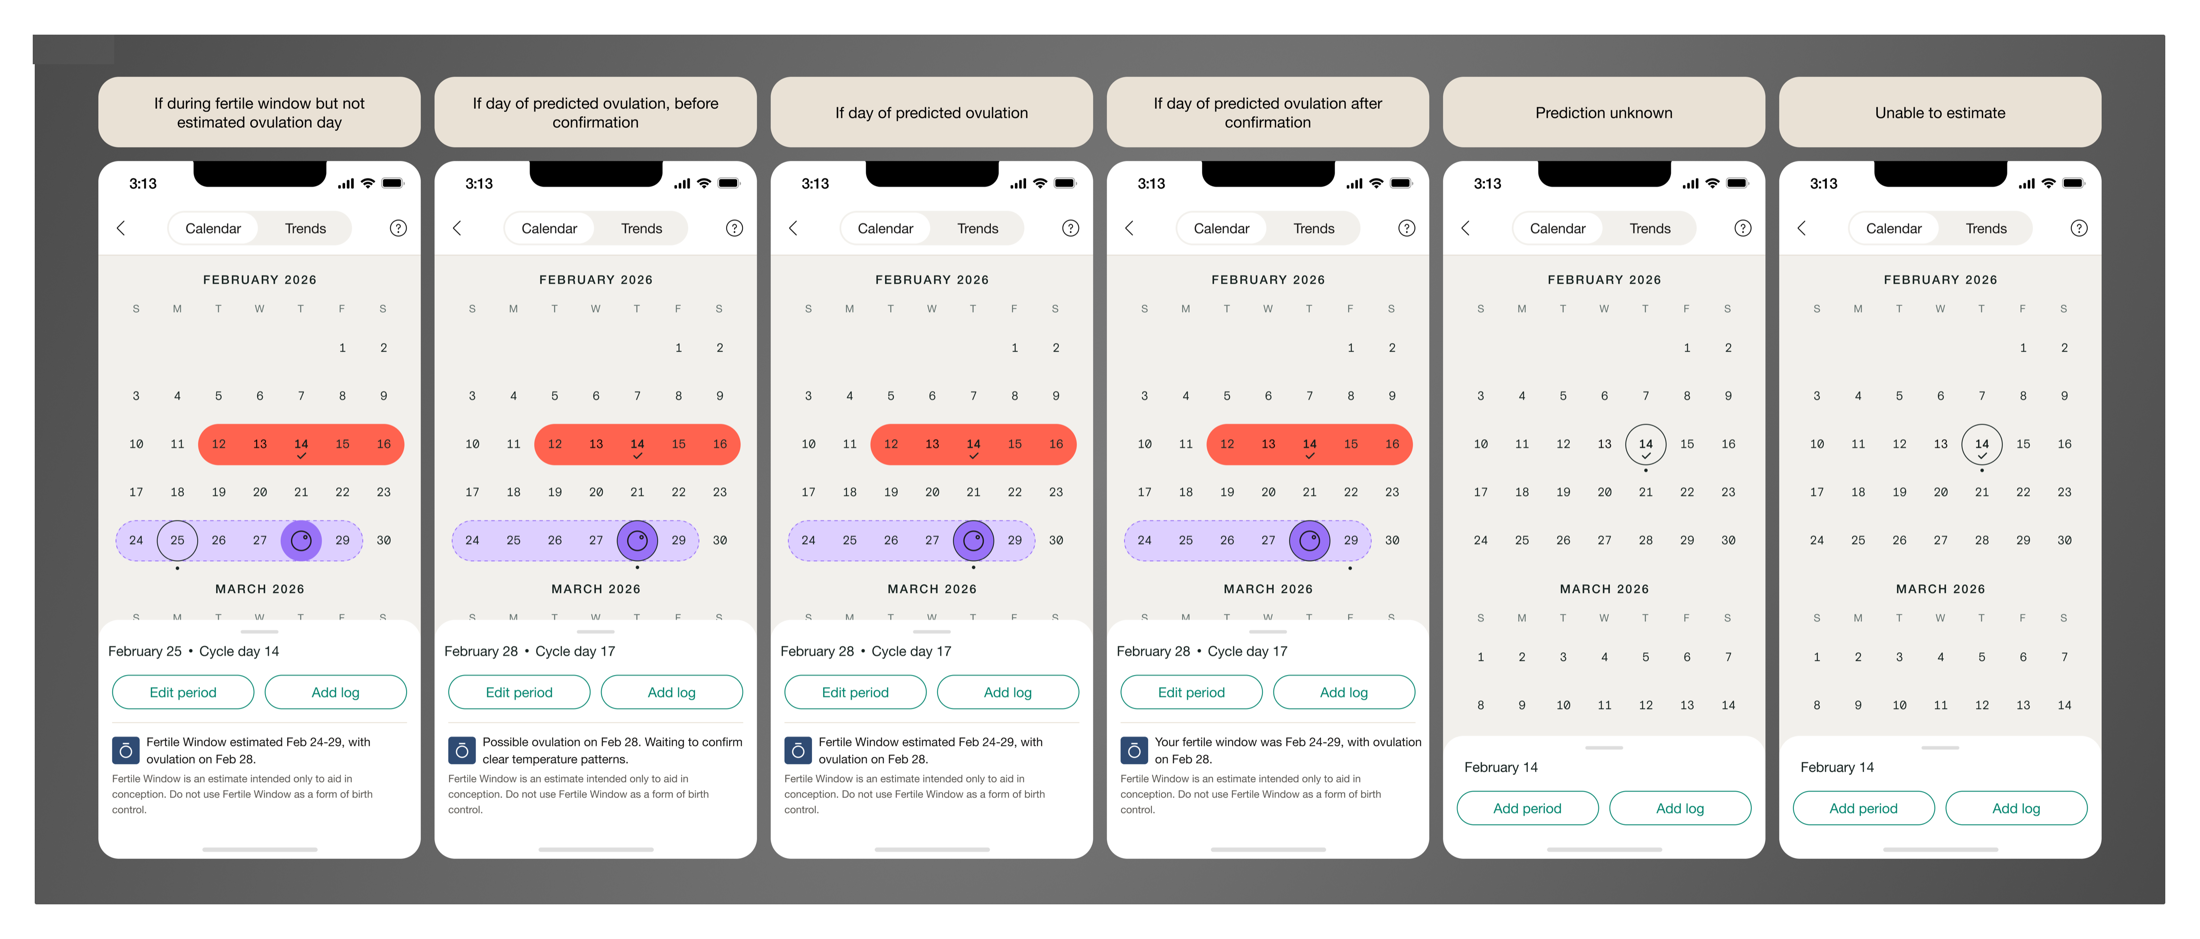
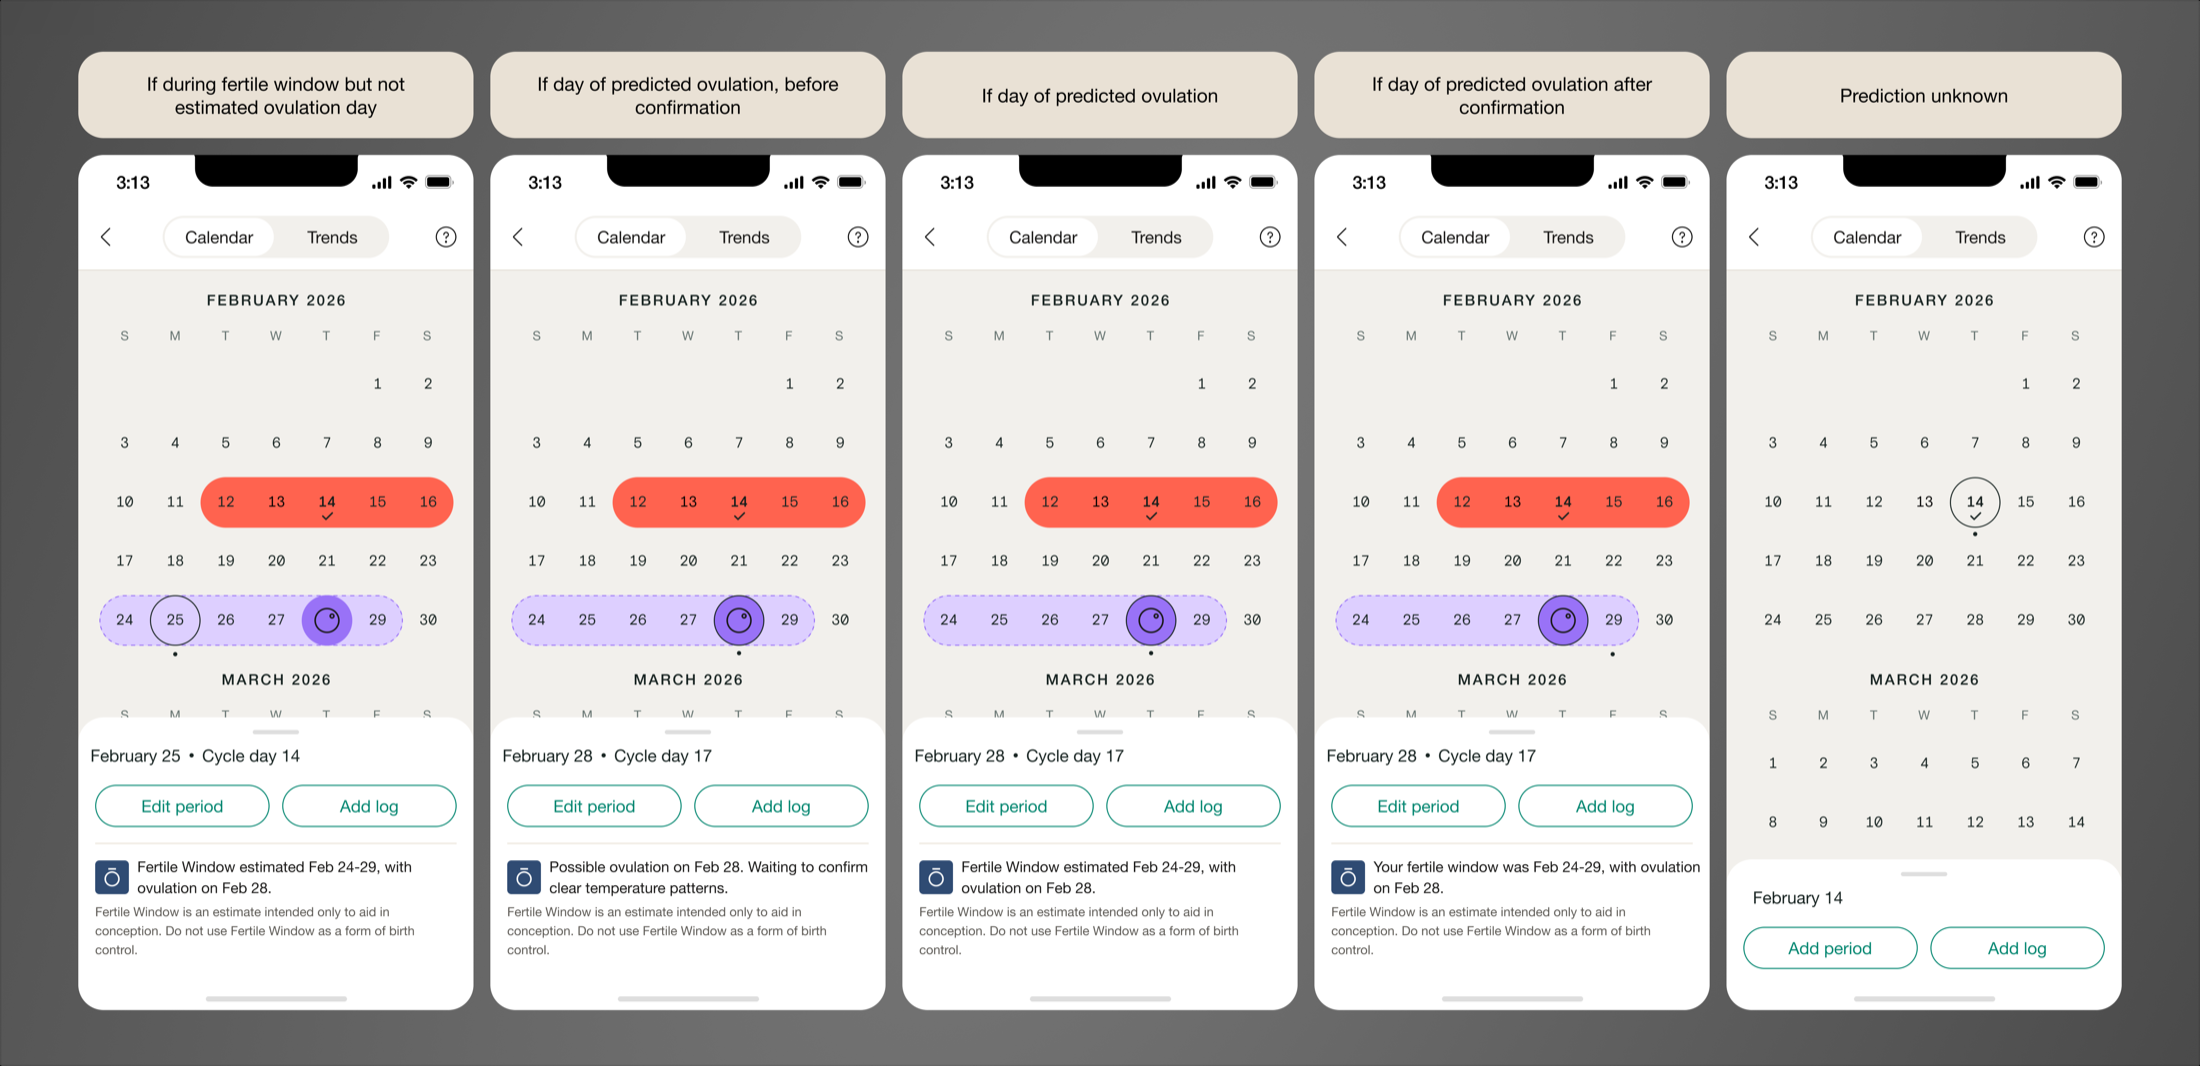
Add fertility experience hero image, replace fertile window image, copy edits
Add the fertility hero image to the case study top, matching Support
Chat's hero treatment (cropped, tag chip removed, lightbox-enabled).
Replace the fertile window image with the updated 5-state version,
same treatment. Rewrite the "What I'd change" section, and credit
"leading design for" the fertility experience in the intro paragraph.

diff --git a/fertility-experience.html b/fertility-experience.html
@@ -471,13 +471,14 @@
       <div class="cs-stat"><span class="cs-stat-label">Reach</span><span class="cs-stat-value">~30% of Maven users</span></div>
       <div class="cs-stat"><span class="cs-stat-label">Key metric</span><span class="cs-stat-value">Cycle Tracker onboarding 18% → 24%</span></div>
     </div>
+    <div class="cs-img" style="aspect-ratio:2200/1023; max-height:none;"><img src="fertility-hero.png" data-full="fertility-hero-full.png" alt="Five phone mockups of Maven's Fertility experience: building a fertility profile, the health profile summary with conditions to watch, what to expect at the first visit, My Care lab results, and Prepare Your Questions guide" style="max-height:none;"></div>
   </section>
 
   <section class="wrap">
     <div class="cs-section">
       <h2>The problem space</h2>
       <p>Most people trying to conceive don't lack information, they lack access to it at the right moment. Cycle signals go unnoticed because they're buried instead of surfaced. Diagnostic testing defaults to one partner, leaving a major factor unexamined. Conditions that need a different kind of care get routed through a generic fertility path instead of one built for them. [Read <a href="https://www.prnewswire.com/news-releases/maven-clinic-introduces-cycle-tracker-and-male-fertility-tools-designed-to-help-people-get-pregnant-sooner-302527254.html" target="_blank" rel="noopener">Maven's press release</a>]</p>
-      <p>My work on the fertility experience at Maven focused on closing those specific gaps: surfacing cycle data earlier, replacing single point-in-time testing with continuous signal, filling a diagnostic blind spot, and building a path for a condition that doesn't fit the standard model.</p>
+      <p>My work leading design for the fertility experience at Maven focused on closing those specific gaps: surfacing cycle data earlier, replacing single point-in-time testing with continuous signal, filling a diagnostic blind spot, and building a path for a condition that doesn't fit the standard model.</p>
     </div>
 
     <div class="cs-section" style="border-bottom:none; padding-bottom:0;">
@@ -503,8 +504,9 @@
       <p>The widget took the top position on the Fertility homepage and has held it since launch, continuing to serve as the primary driver of Cycle Tracker engagement and onboarding for the ~30% of Maven users in that program, lifting Cycle Tracker onboarding from 18% to 24% of users.</p>
 
       <h3>What I'd change</h3>
-      <p>Condition-aware, more sensitive content. Right now the messaging treats cycle tracking as a physical, mechanical thing. For someone who's been trying to conceive for months without success, that's not the whole experience. There's an emotional weight to it that the current content doesn't account for, and the tone needs to flex for where someone actually is in their journey, not just their cycle day.</p>
-      <p>AI-driven personalization. The content today is phase-based, not history-based. The next version should use what a user has actually logged: for example, surfacing that they've reported headaches and cramps during this same phase across their last three cycles, instead of only showing generic phase information. That shift, from generic to personalized insight, is where the real value is.</p>
+      <p>Right now the content knows what phase you're in, but not who you are.</p>
+      <p>First, tone. Someone eight rounds into trying to conceive needs a different voice than someone on day 10 of their first tracked cycle. Right now they get the same one.</p>
+      <p>Second, memory. If someone's logged headaches and cramps at this same point in her last three cycles, the app should notice and say something about it, instead of just showing generic phase info. That's the shift I'd want: less about the phase, more about the person.</p>
     </div>
 
     <div class="cs-section" style="border-bottom:none; padding-bottom:0;">
